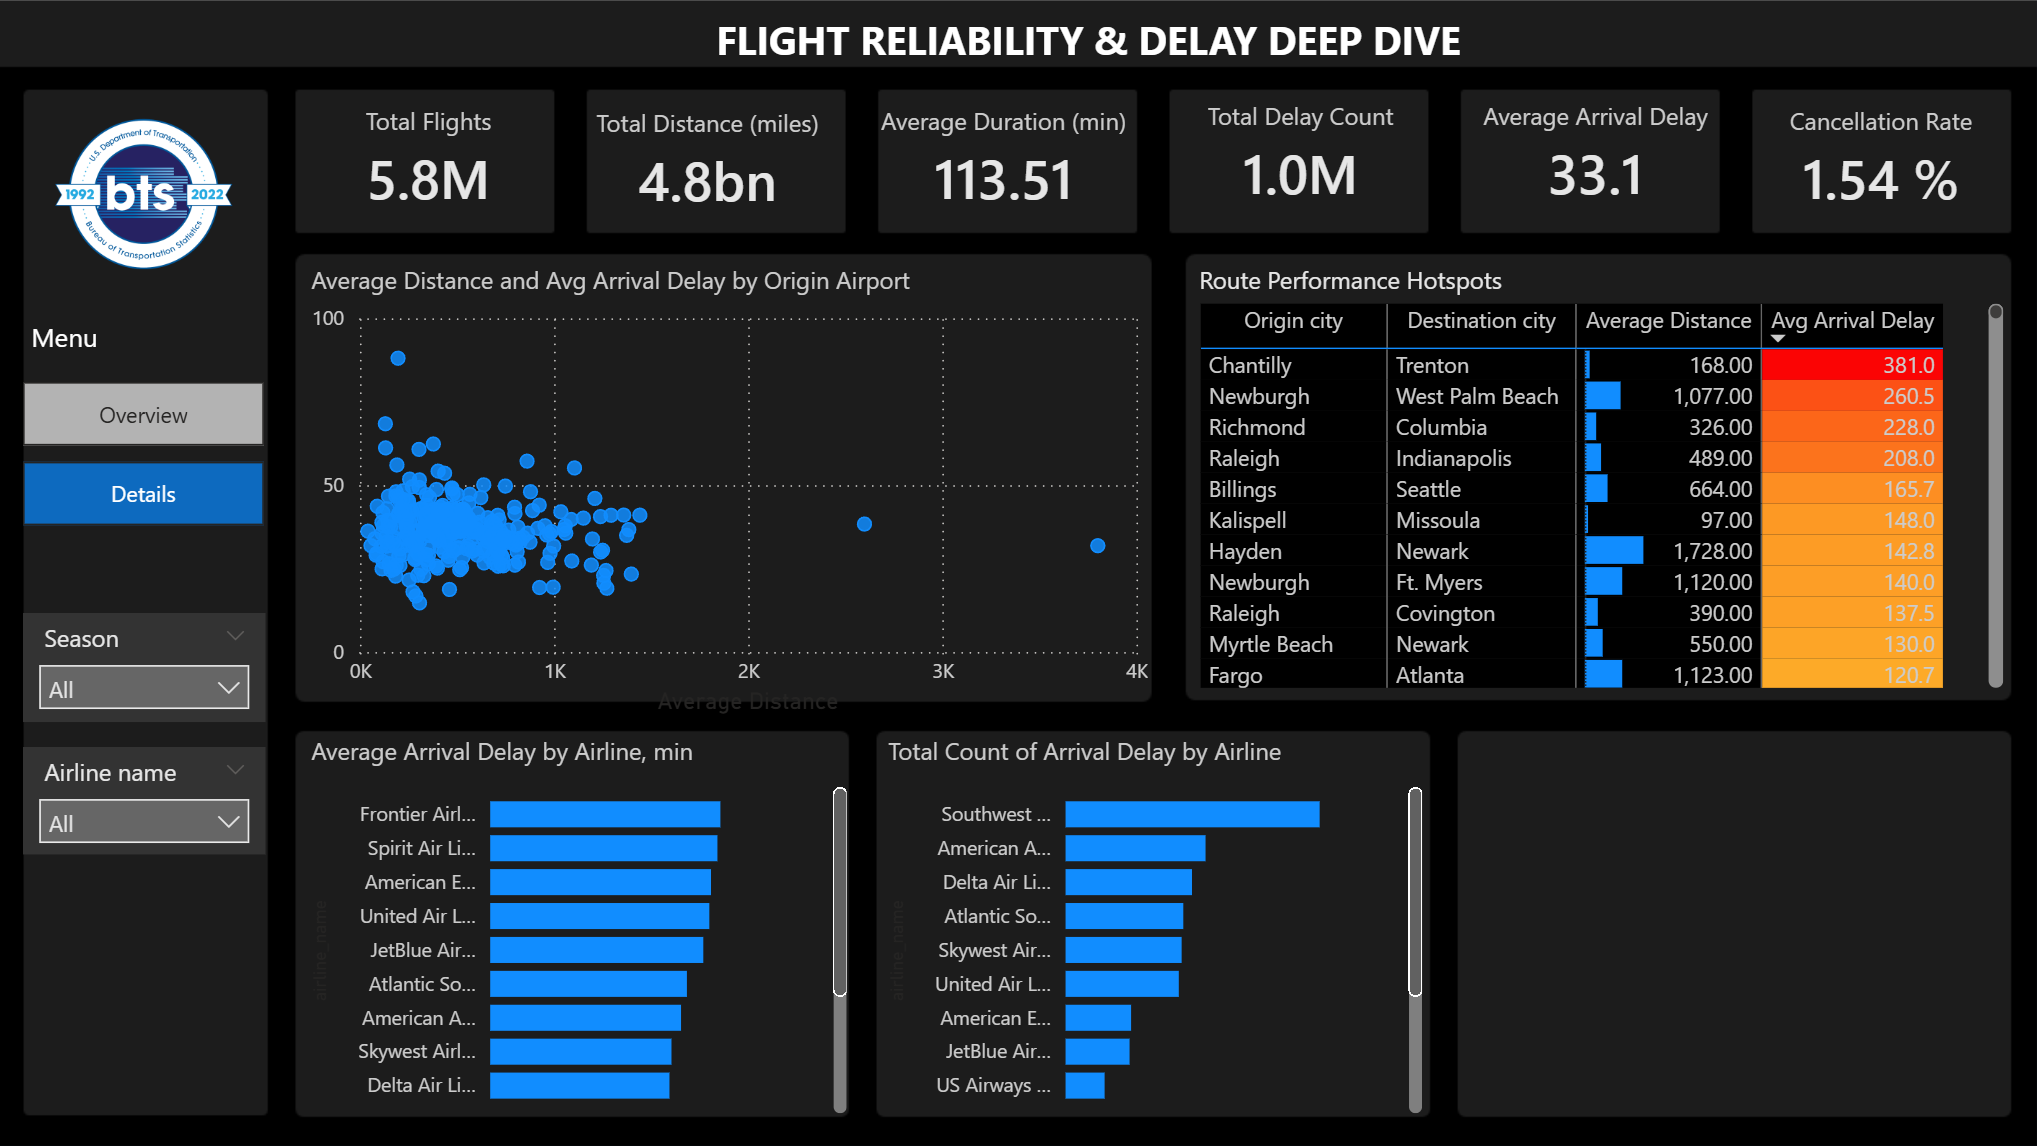
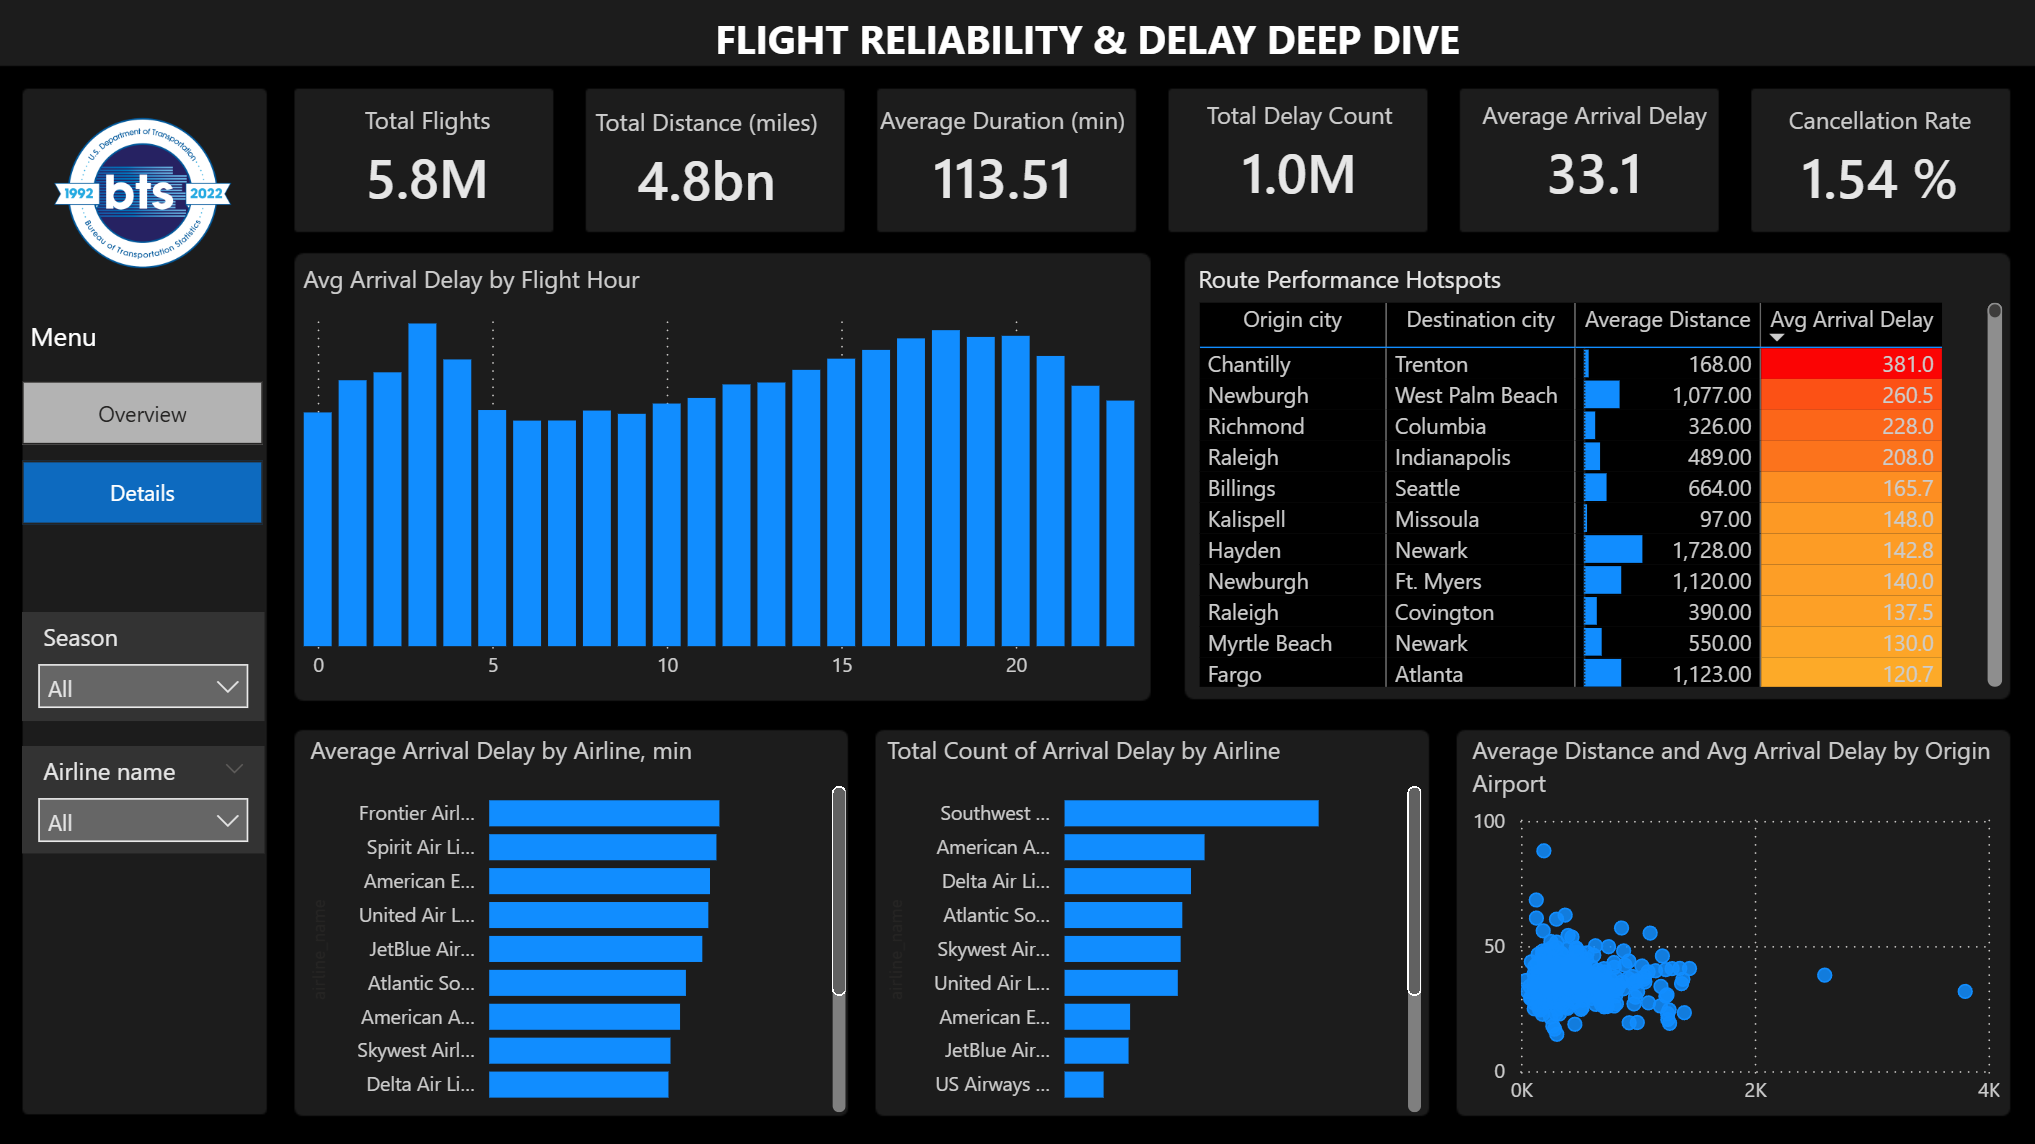
project updates

diff --git a/08-course-project/README.md b/08-course-project/README.md
@@ -193,7 +193,7 @@ ADDCOLUMNS(
 
 **2nd dashboard: Flight Reliability & Delay Deep Dive**
 * **Visuals**: Scatter Chart (Distance vs Delay), Time of Day Analysis (Hourly columns).
-* **Insight**: Discovered the "Snowball Effect" — delays peak between 6 PM - 9 PM due to cumulative schedule drift.
+* **Insight**: Discovered the "Snowball Effect" — delays peak between 5 PM - 9 PM and at 3 AM due to cumulative schedule drift.
 
 **Dashbord #2**
 ![Dashbord #2](pbi_report/dashboard_2.png)
